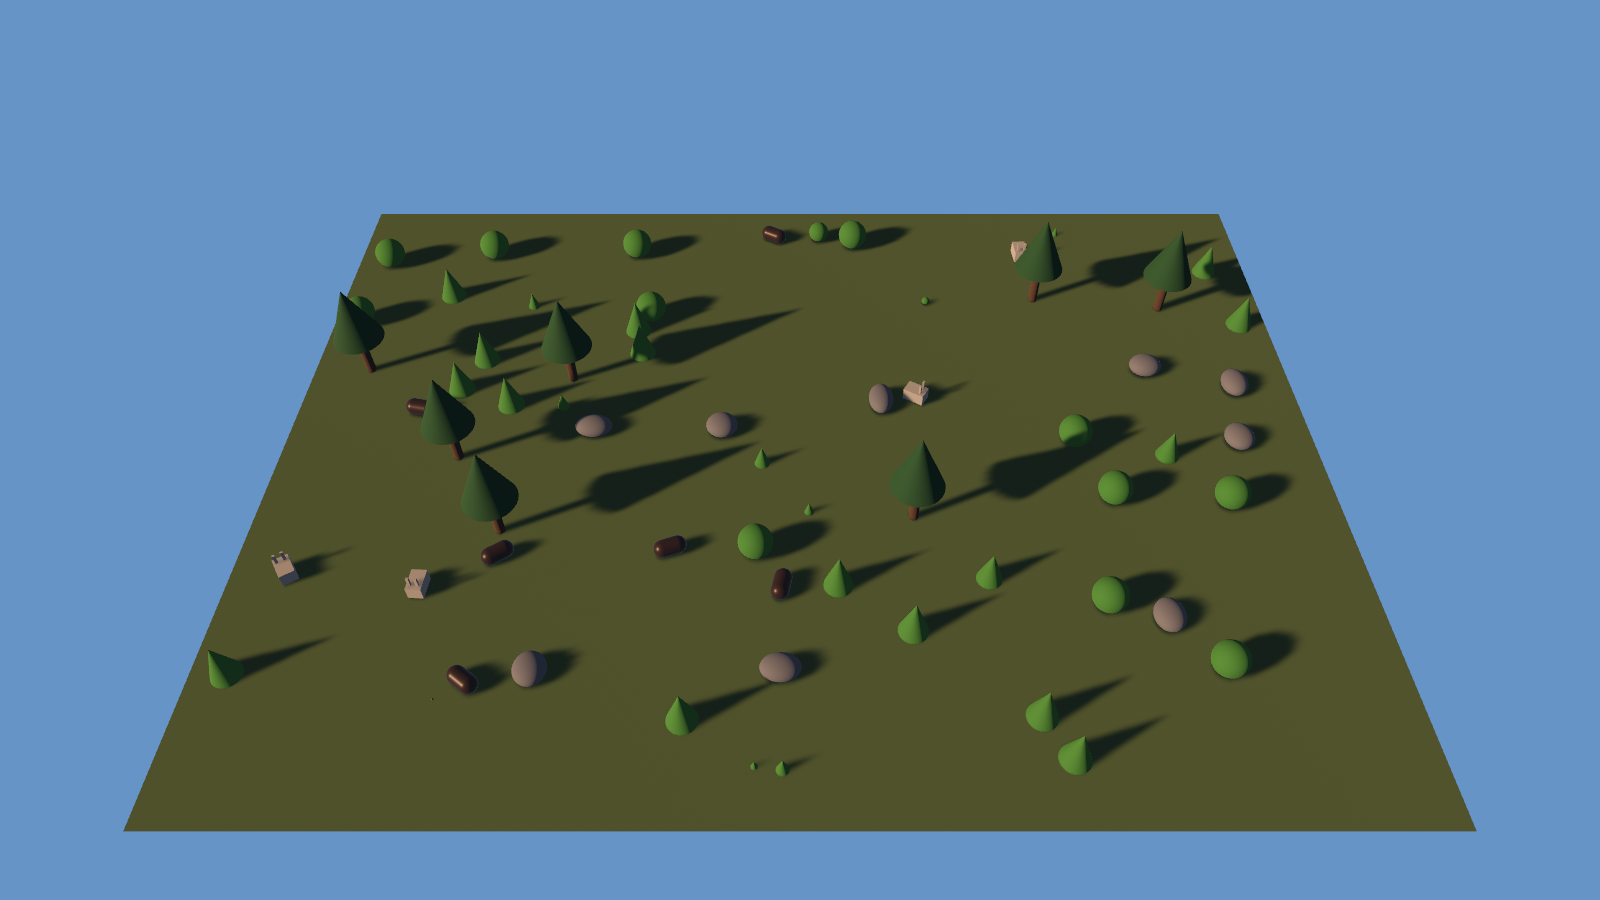
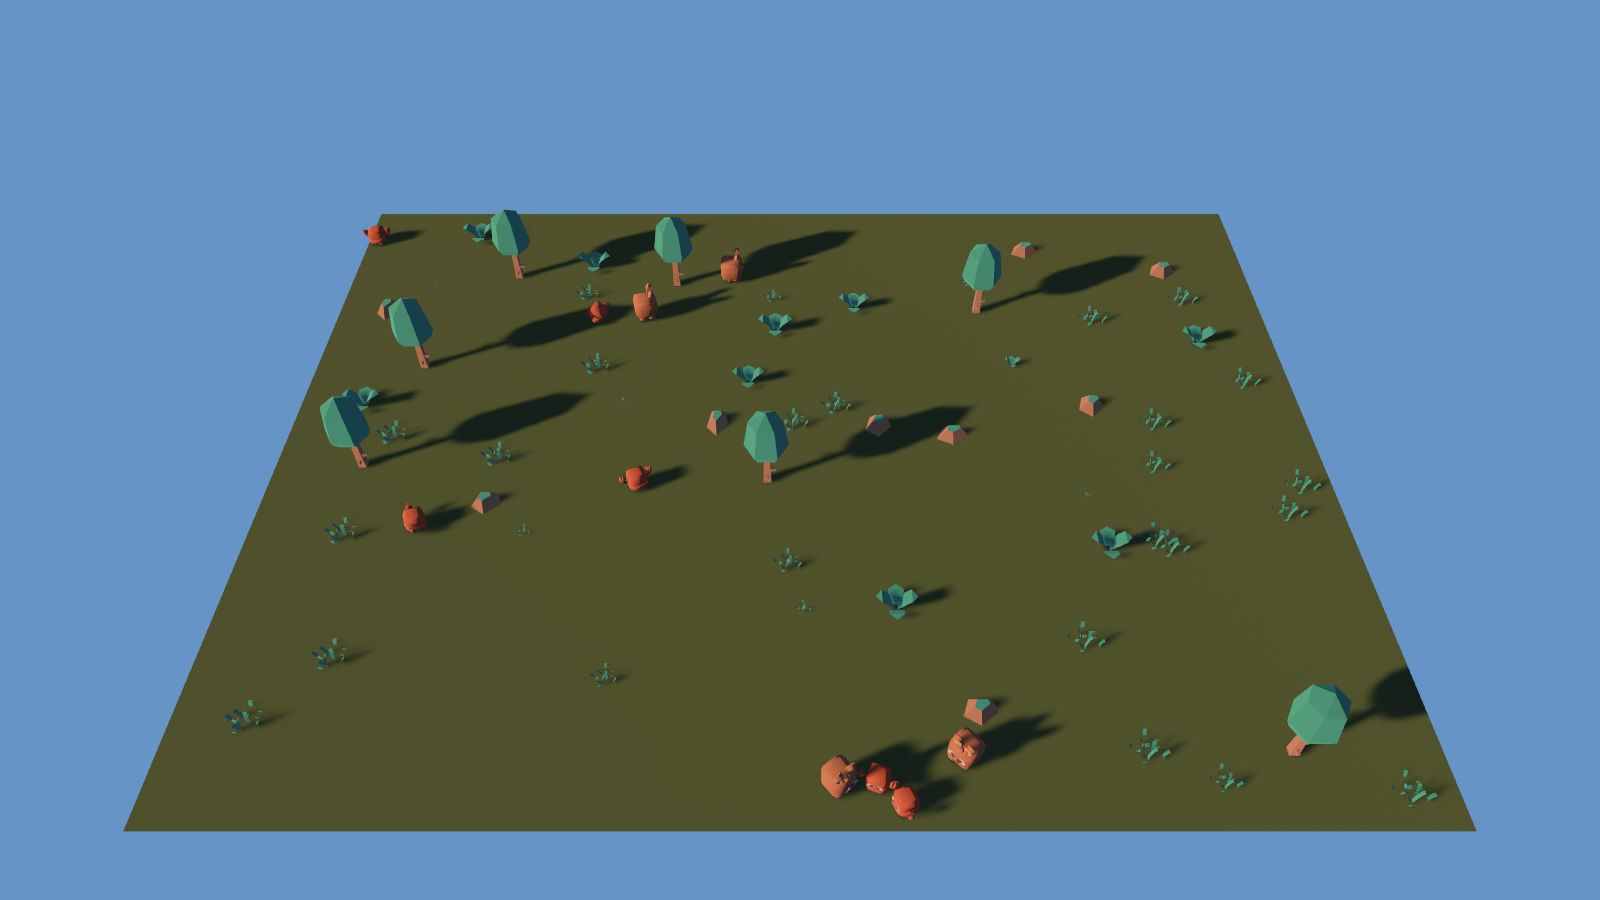
garden G0a: make the models actually appear — four things between a clean headless run and a picture
The headless checks were all passing while the window drew a blue rectangle with
eight green specks in it. In order:

* **`bevy_animation` is not what reads the clips.** The glTF loader only produces
  `#Animation0…` when `gltf_animation` is on as well; without it the labels do not
  exist and the only sign is one ERROR line per clip.
* **The `WorldAsset` spawner panics on any unregistered type in a loaded world.**
  bevy 0.19 moved automatic registration behind `reflect_auto_register`, which would
  put a few hundred of Bevy's types in front of Ruby and take away the one decision
  this game is about. So the windowed build names the twenty-three types a `.glb`
  brings with it, found one panic at a time. A script in the window can read those too;
  they are Bevy's, the game's own private components derive no `Reflect` at all, and
  the headless build — where every check runs — loads no model and registers none of
  them.
* **`spawn_world` has to run after `make_look`.** Its `Option<Res<Look>>` is how the
  headless build says "no models", so the wrong order is not an error: it is a garden
  with no ground, no trees and no creatures, in which only the plants that sprouted
  later have a model. That is exactly the picture it drew. `MakeLook` is a set because
  `make_look` is not in the headless schedule to be ordered against.
* And the picture is taken at 22 s because 26 s is after sunset.
[…]

diff --git a/garden/src/main.rs b/garden/src/main.rs
@@ -244,6 +244,10 @@ struct Probe {
     dinner: Entity,
 }
 
+/// Where `make_look` is, so that `spawn_world` can be after it in the build that has one.
+#[derive(SystemSet, Debug, Clone, PartialEq, Eq, Hash)]
+struct MakeLook;
+
 // ---------------------------------------------------------------------------------------------
 // Resources
 // ---------------------------------------------------------------------------------------------
@@ -492,8 +496,9 @@ fn main() {
                 RubevyPlugin::default(),
             ))
             .init_resource::<Orbit>()
-            .add_systems(Startup, (make_look, spawn_camera))
+            .add_systems(Startup, (make_look.in_set(MakeLook), spawn_camera))
             .add_systems(Update, (orbit_camera, dress_animations, animate_creatures));
+            register_scene_types(&mut app);
         }
     }
 
@@ -519,7 +524,14 @@ fn main() {
         .init_resource::<Contacts>()
         .init_resource::<Bumps>()
         .init_resource::<Eaters>()
-        .add_systems(Startup, spawn_world)
+        // `spawn_world` asks for `Option<Res<Look>>`, and a `None` there is how the headless
+        // build says "no models". That makes the order load-bearing: without this the windowed
+        // build's `spawn_world` may run before `make_look` and then it is `None` there too —
+        // which is a garden with no ground, no trees and no creatures, and only the plants that
+        // sprouted later (`sprout_plants` runs in `Update`, long after) with a model on them.
+        // `MakeLook` is a set rather than `after(make_look)` because `make_look` is not in the
+        // headless schedule at all.
+        .add_systems(Startup, spawn_world.after(MakeLook))
         .add_systems(
             Update,
             (
@@ -555,6 +567,48 @@ fn main() {
         app.insert_resource(Shot { path, after, taken: false }).add_systems(Update, take_shot);
     }
     app.run();
+}
+
+/// What a `.glb` needs in the type registry, in the windowed build only.
+///
+/// bevy 0.19 spawns a loaded glTF through `bevy_world_serialization`, and that spawner **panics
+/// on any type in the loaded world the app has not registered** — there is no "skip what you do
+/// not know". Nothing registers Bevy's own types automatically here: that is the
+/// `reflect_auto_register` feature, which registers every type in the binary that derives
+/// `Reflect`. Turning it on would be one line, and it would put a few hundred of Bevy's types in
+/// front of Ruby — the registry would stop being a thing this game decides, which is most of what
+/// the garden is for. So the plumbing a model brings with it is named here, one line each, the
+/// way `Transform` already was. (The game's private components would survive either way: they
+/// derive no `Reflect`, so nothing can register them.)
+///
+/// The cost is that a script running in the window can read these too — `e[:GlobalTransform]`,
+/// `e[:Name]`. They are Bevy's, not the game's, and the component table in `docs/garden.md` is
+/// still the whole of what the *game* offers. The headless build, where the checks live, does
+/// not load a model and does not register them, so what the checks see is exactly the table.
+fn register_scene_types(app: &mut App) {
+    app.register_type::<GlobalTransform>()
+        .register_type::<bevy::transform::components::TransformTreeChanged>()
+        .register_type::<Visibility>()
+        .register_type::<bevy::camera::visibility::VisibilityClass>()
+        .register_type::<bevy::camera::primitives::Aabb>()
+        .register_type::<InheritedVisibility>()
+        .register_type::<ViewVisibility>()
+        .register_type::<Name>()
+        .register_type::<ChildOf>()
+        .register_type::<Children>()
+        .register_type::<Mesh3d>()
+        .register_type::<MeshMaterial3d<StandardMaterial>>()
+        .register_type::<AnimationPlayer>()
+        .register_type::<bevy::animation::AnimationTargetId>()
+        .register_type::<bevy::animation::AnimatedBy>()
+        .register_type::<AnimationGraphHandle>()
+        .register_type::<bevy::gltf::GltfExtras>()
+        .register_type::<bevy::gltf::GltfSceneExtras>()
+        .register_type::<bevy::gltf::GltfMeshExtras>()
+        .register_type::<bevy::gltf::GltfMaterialExtras>()
+        .register_type::<bevy::gltf::GltfMaterialName>()
+        .register_type::<bevy::gltf::GltfMeshName>()
+        .register_type::<bevy::gltf::GltfSceneName>();
 }
 
 // ---------------------------------------------------------------------------------------------
@@ -820,8 +874,8 @@ fn spawn_creature(commands: &mut Commands, look: Option<&Look>, species: Species
         // the models face +Z and the world's heading does too (`move_creatures` turns the parent),
         // so the child only sets the size
         let (model, scale) = match species {
-            Species::Beetle => (look.beetle.clone(), 0.42),
-            Species::Rabbit => (look.rabbit.clone(), 0.55),
+            Species::Beetle => (look.beetle.clone(), 0.55),
+            Species::Rabbit => (look.rabbit.clone(), 0.75),
         };
         entity.with_children(|body| {
             body.spawn((WorldAssetRoot(model), Transform::from_scale(Vec3::splat(scale))));
@@ -1468,6 +1522,7 @@ fn dress_animations(
     added: Query<Entity, Added<AnimationPlayer>>,
     parents: Query<&ChildOf>,
     creatures: Query<&Creature>,
+    mut dressed: Local<bevy::platform::collections::HashMap<&'static str, bool>>,
 ) {
     for player in &added {
         let mut at = player;
@@ -1492,6 +1547,13 @@ fn dress_animations(
             .entity(player)
             .insert((AnimationGraphHandle(gaits.graph.clone()), AnimationTransitions::new()));
         commands.entity(owner).insert(Animated { player, playing: Gait::Idle });
+        // once per species, so that a run says out loud whether the clips were found: without
+        // the `gltf_animation` feature the graph is three handles to assets that do not exist,
+        // the scene brings no `AnimationPlayer`, and this line never appears
+        if !*dressed.entry(creature.species.name()).or_insert(false) {
+            dressed.insert(creature.species.name(), true);
+            info!("{} walks, idles and eats from its model", creature.species.name());
+        }
     }
 }
 

diff --git a/docs/garden.md b/docs/garden.md
@@ -10,7 +10,7 @@ It is 3D: a plane of grass, creatures on it, trees and rocks they cannot walk th
 that goes round once a minute and casts the shadows. That is Bevy being Bevy; what it costs the Ruby side is two lines, and they are listed
 below.
 
-![the garden: evening, long shadows, grass, trees, rocks, rabbits and beetles](garden.png)
+![the garden at 22 seconds: evening, long shadows over a green field, Kenney tufts and bushes of grass, five trees, scattered rocks, and rabbits and beetles walking about](garden.png)
 
 **This file describes stages G0, G0a and G1** (`docs/plans/garden-plan.md`): the world, the models
 in it, and the two kinds of mind — a Ruby task per creature and a task per reflex. G2 turns a Rust
@@ -25,7 +25,9 @@ cargo run -p garden -- --shot docs/garden.png 22        # a window, one picture 
 ```
 
 On WSL without a GPU driver the windowed mode and `--shot` go through the container in `docker/`
-(`docs/wsl-gpu.md`); `--headless` needs nothing.
+(`docs/wsl-gpu.md`); `--headless` needs nothing. `docker/run.sh` is written for sabibots and names
+its volumes, so the garden's picture above was taken with the same `docker run` spelled out by
+hand against volumes of its own.
 
 ## Keys
 
@@ -307,9 +309,29 @@ derive no `Reflect` and are registered nowhere, so a creature cannot tell that i
 alone that it is chewing on screen. It is the clearest example in the game of a thing that is
 entirely the engine's.
 
-(In bevy 0.19 what a `.glb` loads into is a `WorldAsset`, placed with a `WorldAssetRoot`
-component; `Scene` and `SceneRoot` were renamed when `bevy_scene` became the next-generation BSN
-system.)
+**What a `.glb` costs the type registry.** In bevy 0.19 a `.glb` loads into a `WorldAsset`, placed
+with a `WorldAssetRoot` component (`Scene` and `SceneRoot` were renamed when `bevy_scene` became
+the next-generation BSN system), and the spawner that turns one into entities **panics on any
+type in the loaded world the app has not registered**. Nothing registers Bevy's own types here —
+that is the `reflect_auto_register` feature, which registers every type in the binary that derives
+`Reflect`. It would be one line, and it would put a few hundred of Bevy's types in front of Ruby;
+the registry would stop being something this game decides, which is most of what the garden is
+for. So the windowed build names the plumbing a model brings with it, one line each, the way
+`Transform` was already named — twenty-three of them: `GlobalTransform`, `TransformTreeChanged`,
+`Visibility` and its two shadows, `VisibilityClass`, `Aabb`, `Name`, `ChildOf`, `Children`,
+`Mesh3d`, `MeshMaterial3d<StandardMaterial>`, four animation components and the seven `Gltf*`
+ones. They were found one at a time, because the panic names one type and then stops.
+
+A script running in the window can therefore read those too — `e[:GlobalTransform]`, `e[:Name]`.
+They are Bevy's, not the game's, and the table above is still the whole of what the *game* offers;
+`Mind`, `Animated`, `Eating` and the rest derive no `Reflect` and could not be registered even by
+accident. The headless build, which is where every check runs, loads no model and registers none
+of them, so what the checks see is exactly the table.
+
+And one feature name is worth writing down: `bevy_animation` gives you `AnimationPlayer`, but the
+glTF loader only reads the clips out of a file when **`gltf_animation`** is on as well. Without it
+`GltfAssetLabel::Animation(1).from_asset(…)` is an asset that does not exist, and the only sign is
+one `ERROR` line per clip.
 
 **A headless run loads none of it.** The `Look` resource is built only in the windowed build, and
 every spawn takes `Option<&Look>` — the same shape `day_night` uses for `GlobalAmbientLight`,
@@ -318,6 +340,13 @@ way; only the child that carries the look is missing. Loading glTF without a ren
 adding four more plugins to the headless app and would put Bevy's asset loader inside the checks,
 and there is nothing to check: no test looks at a child, and every component a script can see is
 on the parent.
+
+That `Option` is load-bearing in the other direction too, and it is why `spawn_world` is ordered
+`after(MakeLook)`. Without the ordering the windowed build's `spawn_world` can run *before*
+`make_look` and see `None` — and a `None` there is not an error, it is "no models". The result is
+a garden with no ground, no trees and no creatures, in which the only things with a model are the
+plants that sprouted later, because `sprout_plants` runs in `Update`. It renders, it does not warn,
+and it is wrong.
 
 ## Day and night
 
@@ -390,7 +419,7 @@ selftest: ok   a beetle touched by a rabbit changed heading within 0.5 s (32/32)
 selftest: ok   the creatures were asleep a second after night fell (11 of them, fastest 0.000 at 26.21 s)
 ```
 
-Three runs of that, all seven ok each time: the turn check counted 29, 38 and 32 touches and every
+Three runs of that, all seven ok each time: the turn check counted 28, 28 and 24 touches and every
 one of them turned.
 
 The starvation needs a creature that certainly starves, and a creature with a brain in a garden of

diff --git a/docs/plans/garden-plan.md b/docs/plans/garden-plan.md
@@ -94,6 +94,20 @@ wasm は Battle の 30 MB から 35〜40 MB に増える見込み（G5 で実測
   `bevy_animation` の 0.19.1 が「存在しない」と言われた。実際には全部ある。ローカルの sparse index の
   キャッシュ（`~/.cargo/registry/index/*/.cache/be/vy/*`）が公開前のもので、`cargo update` は
   **既にグラフに入っている crate しか引き直さない**。3 ファイル消して解決。バージョンは 1 つも動いていない。
+* **`bevy_animation` だけではクリップが読めない。** glTF ローダがアニメーションを読むのは
+  `gltf_animation` feature（`bevy_gltf?/bevy_animation`）。無いと `#Animation1` が「存在しない
+  アセット」になり、ERROR が 1 行出るだけで静かに止まる。
+* **`WorldAsset` の spawner は未登録の型があると panic する。** bevy 0.19 は自動登録を
+  `reflect_auto_register` feature に移したので、素の状態では `Transform` すら登録されていない。
+  `reflect_auto_register`（`Reflect` を derive した型を全部登録する）を入れれば 1 行だが、
+  bevy の型が何百と Ruby の前に並び「registry はゲームが決める」という主題を捨てるので入れず、
+  **窓のビルドだけ** 23 個（`GlobalTransform`、`TransformTreeChanged`、`VisibilityClass`、`Aabb`、
+  `Name`、`ChildOf`/`Children`、`Mesh3d`、`MeshMaterial3d<StandardMaterial>`、アニメーション 3、`Gltf*` 7）を
+  手で登録した。窓では Ruby からこれらも読めるが、ゲームの私物は `Reflect` を derive していないので
+  登録しようがなく、確認の場（headless）はモデルを読まないので表のまま。
+* **`make_look` → `spawn_world` の順序が要る。** `Option<Res<Look>>` の `None` はエラーではなく
+  「モデル無し」なので、逆になると地面も木も生き物も出ず、後から生える草だけがモデルを持つ。
+  `make_look` は headless に無いので、空の `SystemSet` を作って `after` した。
 * **bevy 0.19 では `.glb` は `Scene` ではなく `WorldAsset` になる**（置くのは `WorldAssetRoot`）。
   `bevy_scene` は次世代の BSN シーンに名前を取られ、旧来のものは `bevy_world_serialization` に移った。
   `GltfAssetLabel::Scene(0)` だけは `Scene` のまま。

diff --git a/README.md b/README.md
@@ -8,7 +8,7 @@ so editing a file changes what happens on screen without a rebuild.
 | game | what it is | state |
 |---|---|---|
 | [`sabibots`](sabibots) | **SabiRuby Battle** — robots that fight; each robot's brain is one Ruby file | playable v0.1 |
-| [`garden`](garden) | **Garden** — a 3D world whose creatures read and write their own ECS components from Ruby by name | the world (G0); the minds are next |
+| [`garden`](garden) | **Garden** — a 3D world whose creatures read and write their own ECS components from Ruby by name | the world and the minds (G0–G1); a `Genome` from a Rust struct is next |
 | `factory` | machines on a line, each with its own script; queues are the conveyors | planned |
 | `cards` | a card game whose rules are a Ruby DSL | planned |
 
